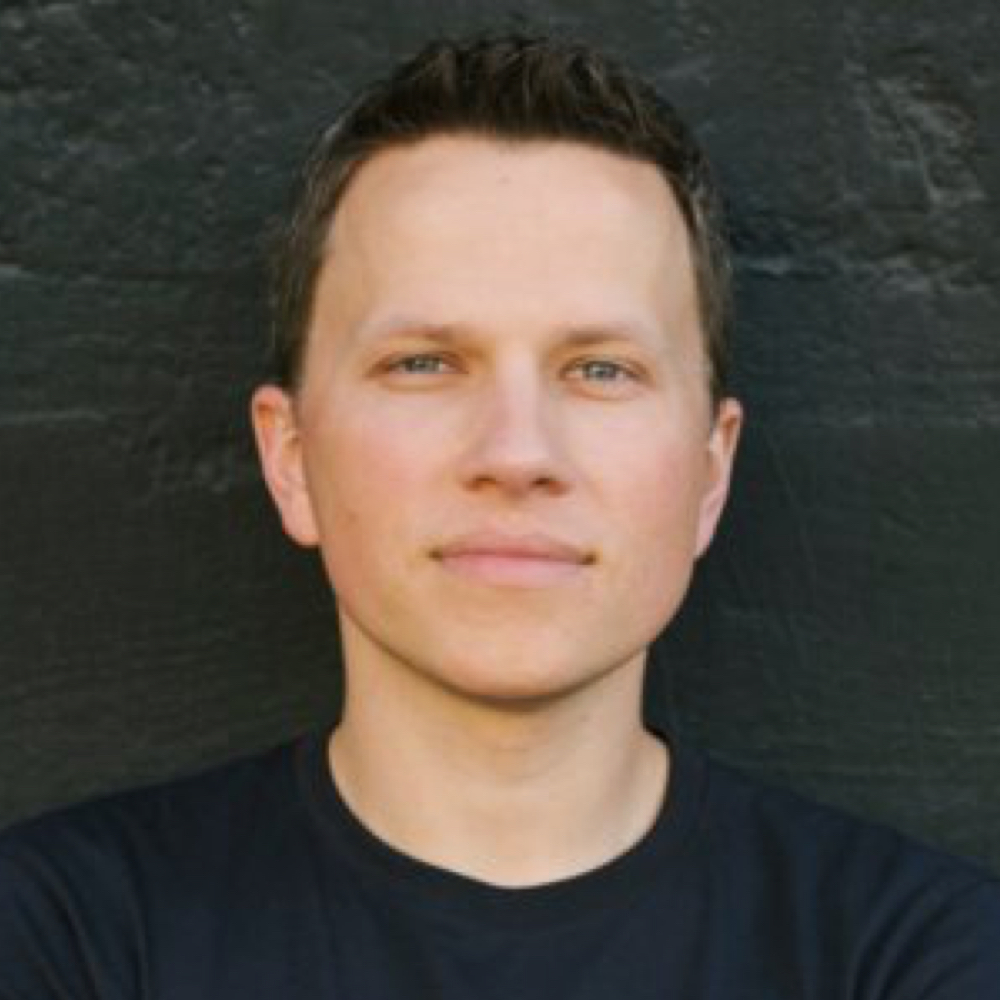
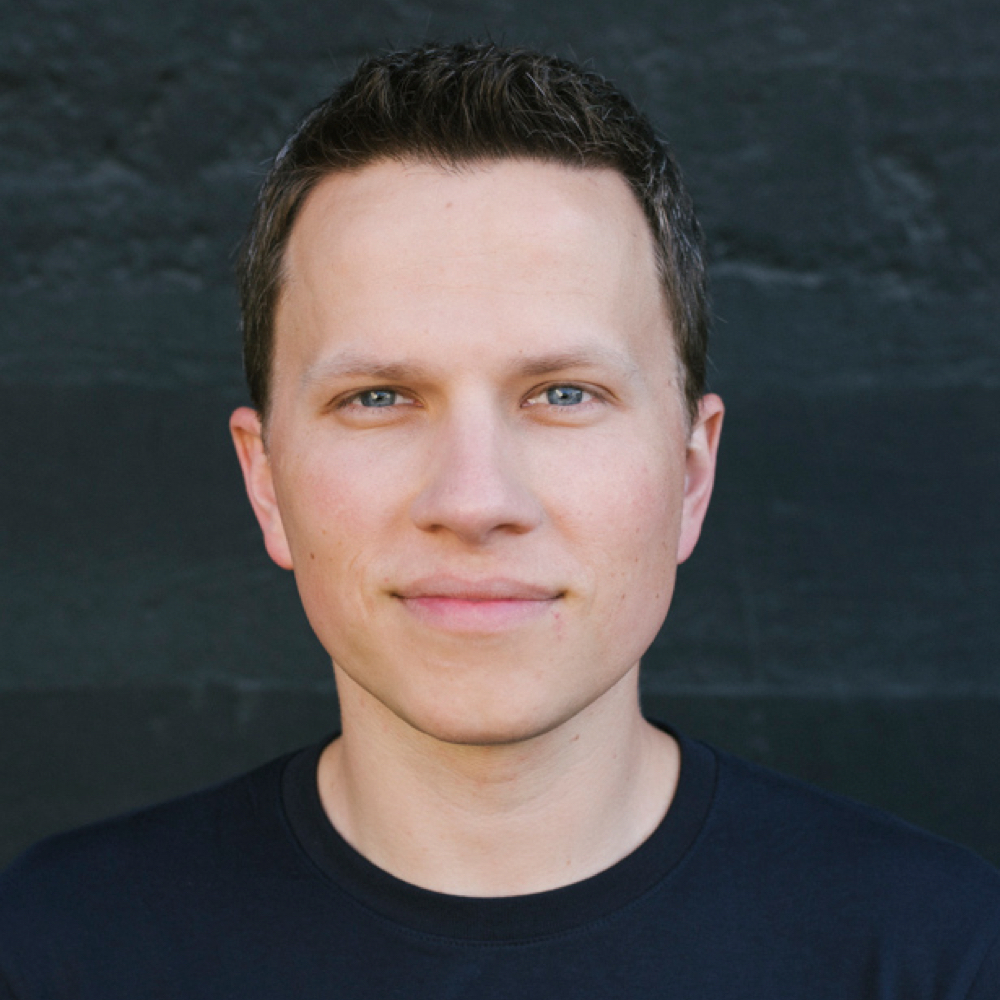
added Cindy Chang and updated Vlad

diff --git a/conference/speakers.data.php b/conference/speakers.data.php
@@ -154,19 +154,19 @@ $speakers[] = array(
 	'linkedin' => 'https://www.linkedin.com/in/madelinevu/'
 );
 
-// Jasmine Friedl
+// Cindy Chang
 $speakers[] = array(
-	'slug' => 'jasminefriedl',
-	'first' => 'Jasmine',
-	'last' => 'Friedl',
-	'title' => 'Head of Design',
+	'slug' => 'cindychang',
+	'first' => 'Cindy',
+	'last' => 'Chang',
+	'title' => 'Sr. Product Designer',
 	'company' => 'Intercom',
 	'discipline' => 'ux',
-	'photo' => 'headshots/jasminefriedl.jpg',
+	'photo' => 'headshots/cindychang.jpg',
 	'bio' => 'Jasmine Friedl is the Head of Design at Intercom in San Francisco, where she leads the product design team. Previously Jasmine built and led design teams at Udacity, Chan Zuckerberg Initiative, and Facebook. She lives in the Bay Area with her designer-husband and French bulldog named Bacon.',
-	'twitter' => 'jazzy33ca',
+	'twitter' => 'cindyjchang',
 	'instagram' => '',
-	'linkedin' => 'https://www.linkedin.com/in/jasmine-friedl-b6895b8/'
+	'linkedin' => 'https://www.linkedin.com/in/cindyjchang/'
 );
 
 // Thor Ernstsson

diff --git a/conference/talks.data.php b/conference/talks.data.php
@@ -44,8 +44,8 @@ $talks[] = array(
 
 // Vlad Magdalin
 $talks[] = array(
-	'title' => 'TBA',
-	'description' => '',
+	'title' => 'Who will build the next million products?',
+	'description' => 'Since the inception of the internet, the practice of bringing new products to market has involved an intricate dance between product managers, designers, and software engineers – so much so that thousands of companies and services have sprung up from making the interface between design and development more efficient. But what if we pause, take a step back, and ask ourselves: could there be a radically new way that we can approach creating products that will make it easier for 100X as many people to bring their product ideas to life? This presentation will explore the rich history of other creative industries (like 3D animation and digital publishing) to gain inspiration for how we can completely rethink and transform today’s product design and development practices.',
 	'day' => 1,
 	'slot' => 5,
 	'speaker' => 'vladmagdalin'
